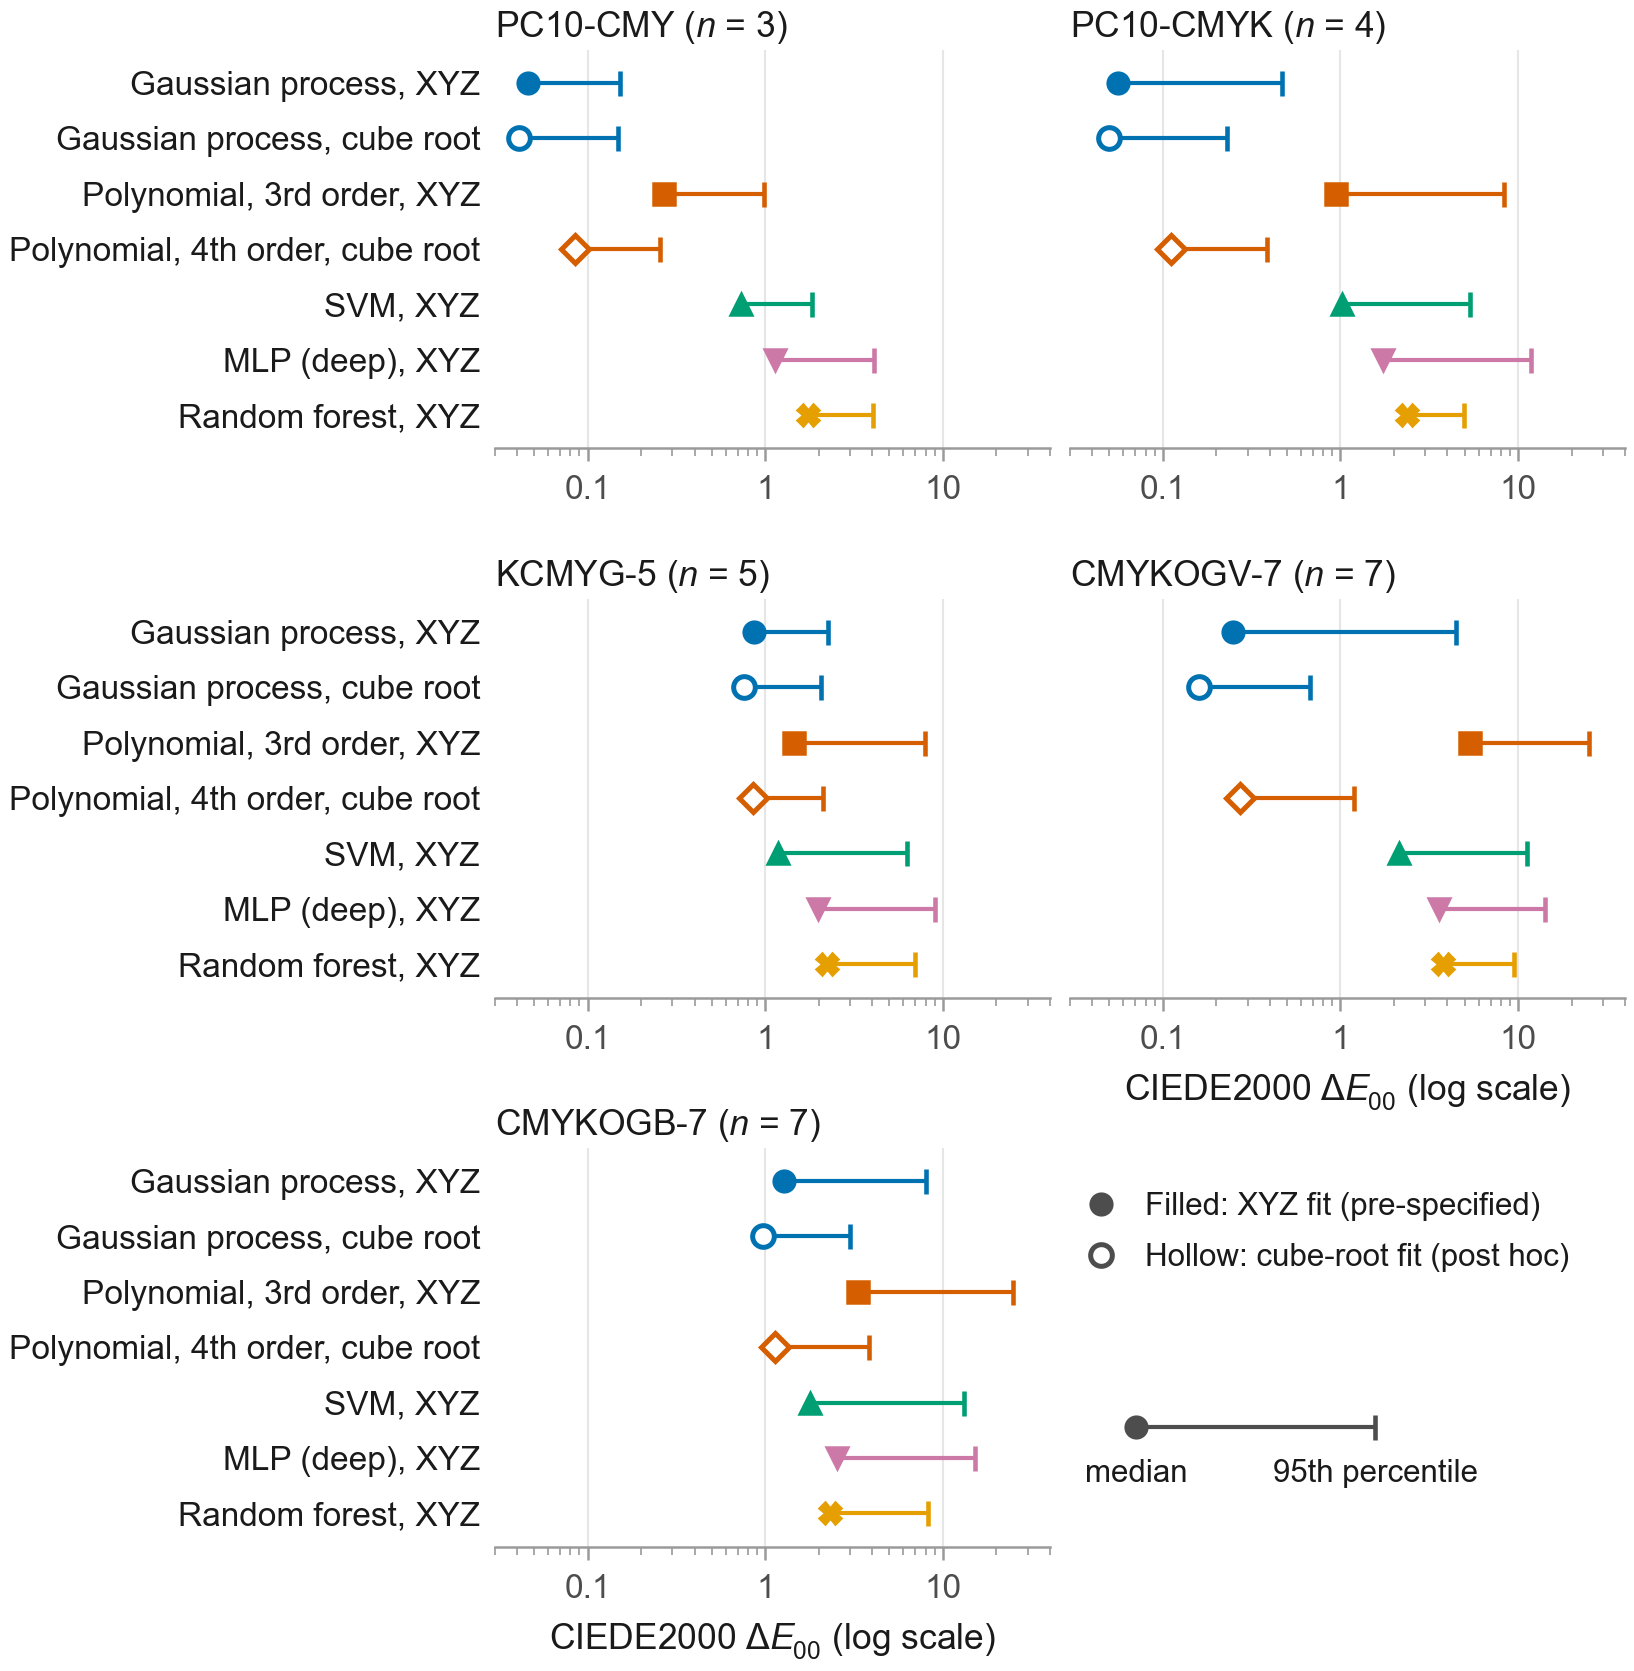
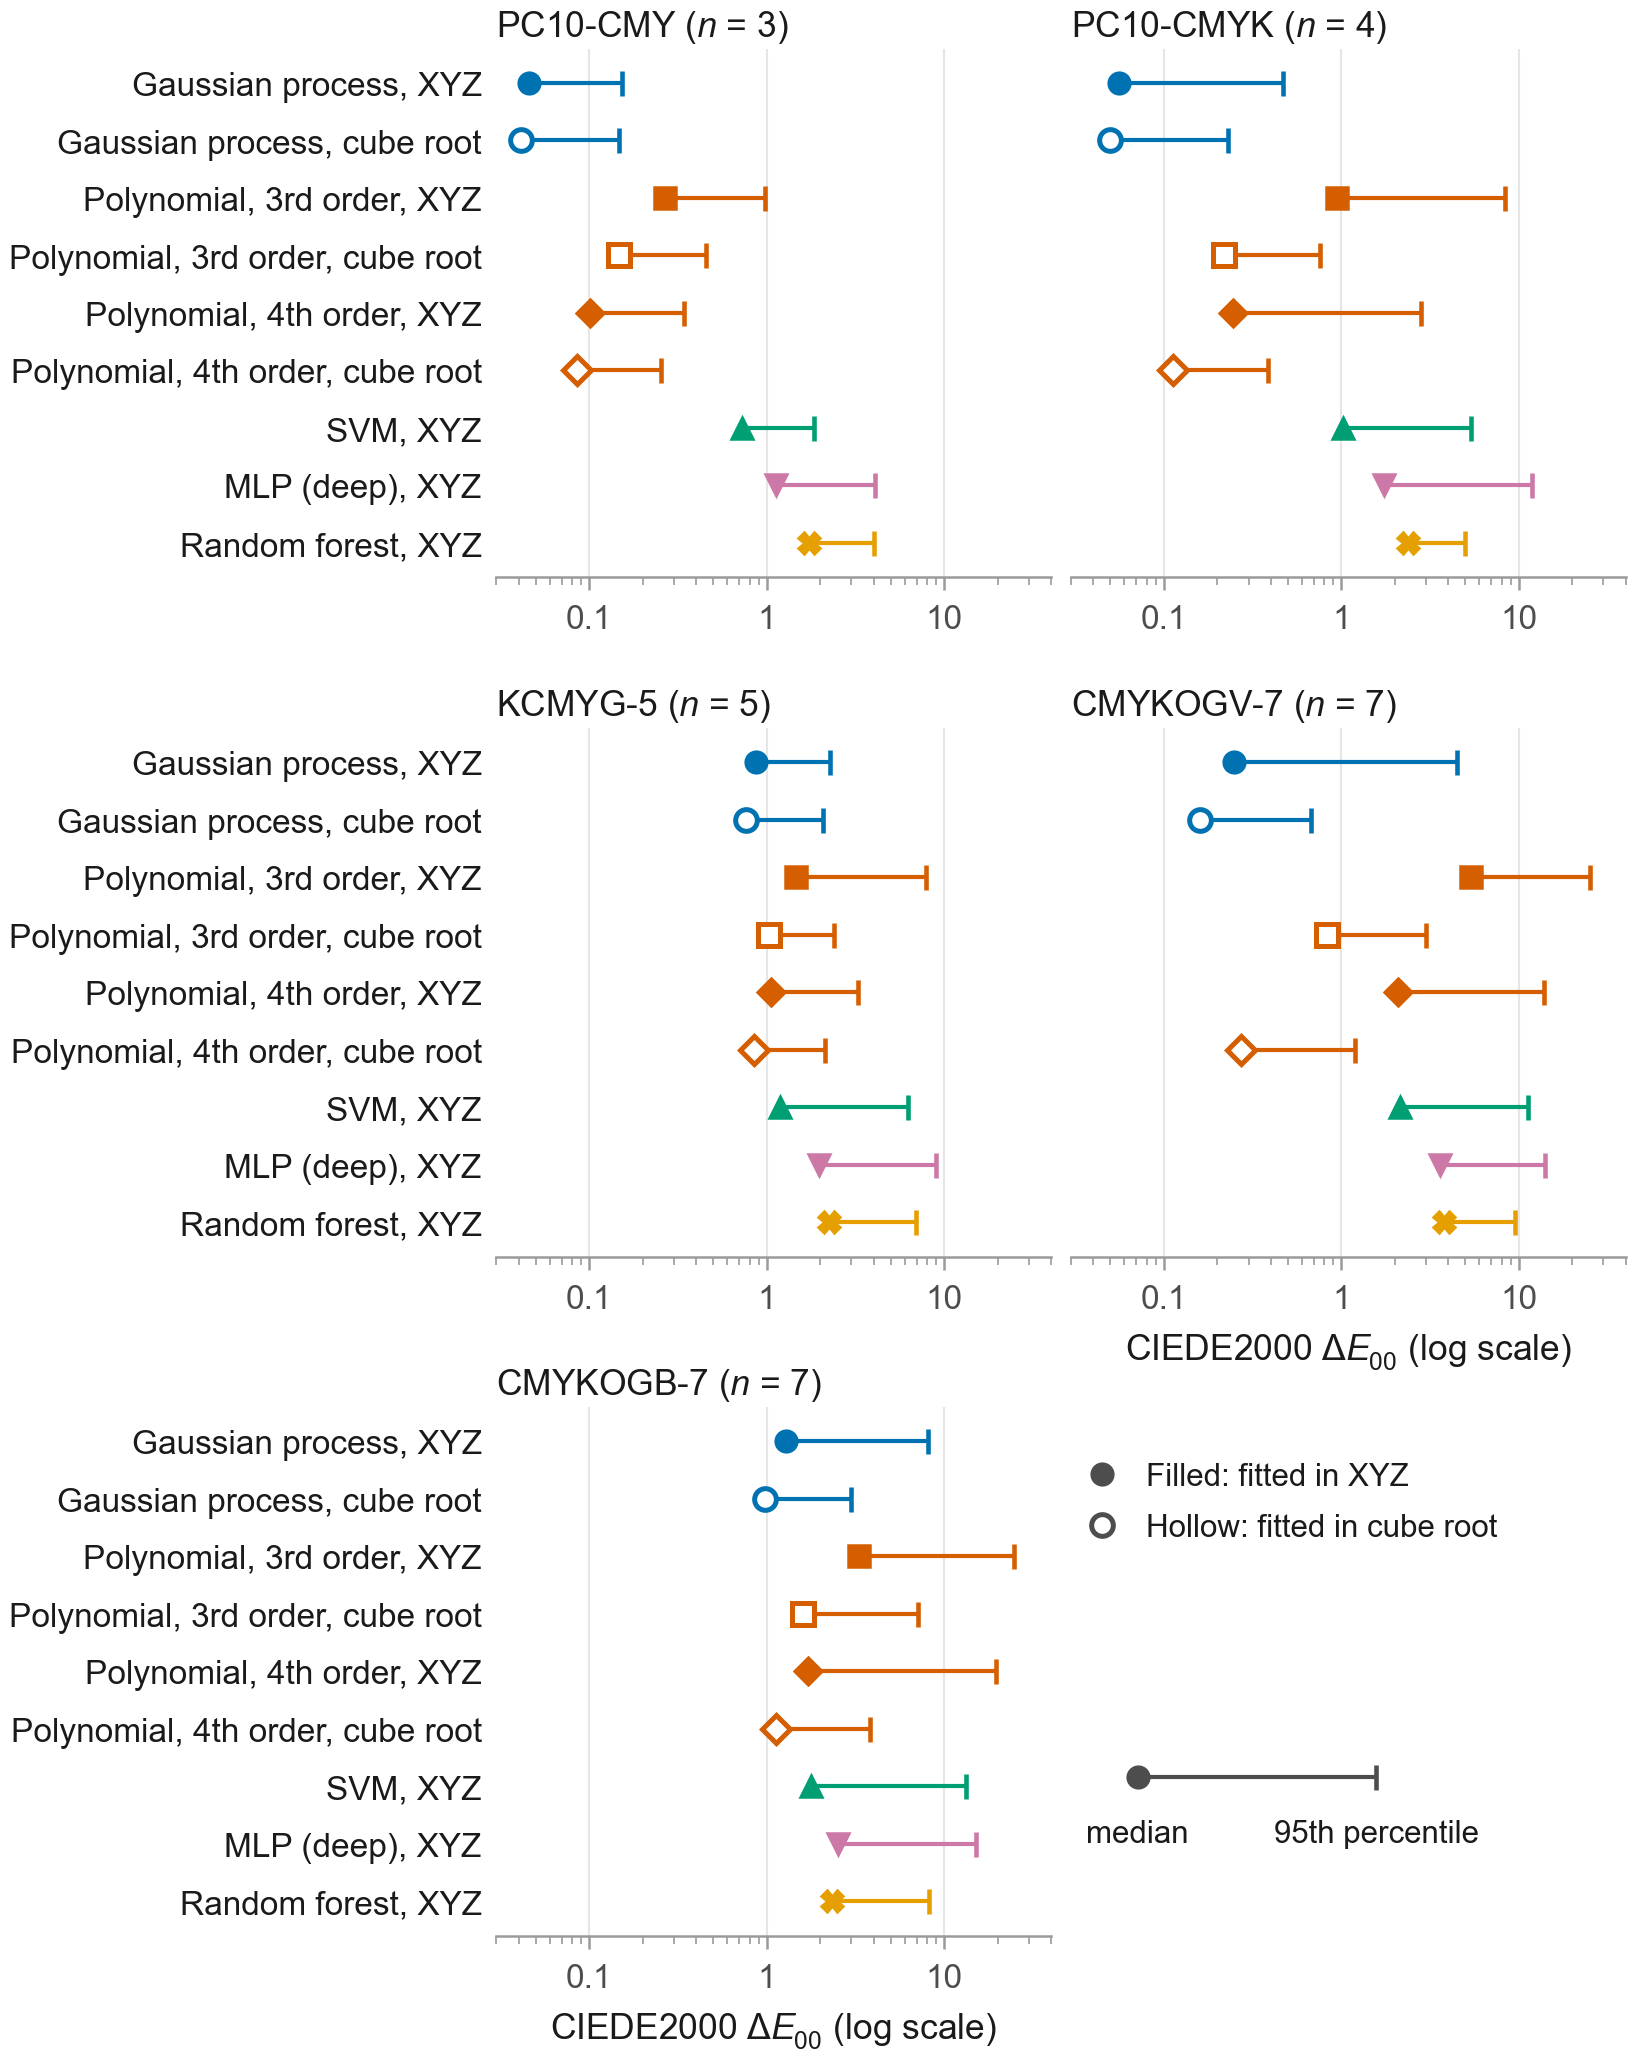
Figure 4: polynomial as full 2x2 of degree and fit space
Adds poly3_cbrt and poly4 rows so degree and space are no longer confounded; 9 rows per panel. Every plotted median/P95 is asserted equal to journal/results/<ds>/summary.csv. Legend now states only the fit space, since poly4 XYZ is also post hoc.

diff --git a/journal/figures/fig_per_dataset.py b/journal/figures/fig_per_dataset.py
@@ -4,18 +4,24 @@ Figure (round-3 revision, replaces the n-colour ladder as Figure 4): median and
 95th-percentile CIEDE2000 error per model, one panel per dataset.
 
 Each panel is one dataset and printing system. No line joins different
-datasets, and every panel shows the same seven models in the same row order:
+datasets, and every panel shows the same nine models in the same row order:
 
     Gaussian process, XYZ             (pre-specified)
     Gaussian process, cube root       (post hoc)
     Polynomial, 3rd order, XYZ        (pre-specified)
+    Polynomial, 3rd order, cube root  (post hoc)
+    Polynomial, 4th order, XYZ        (post hoc)
     Polynomial, 4th order, cube root  (post hoc)
     SVM, MLP (deep), random forest, XYZ (pre-specified)
 
+The polynomial is shown as the full 2 x 2 of degree (3rd, 4th) and space (XYZ,
+cube root), so the effect of degree and the effect of space can be read apart.
+
 Encoding: the marker is the median, the thin bar runs from the median to the
 95th percentile (P95), closed by a short tick. Filled markers are models fitted
-on XYZ (the pre-specified comparison); hollow markers are fitted in cube-root
-space, added after the XYZ results had been obtained (post hoc). Color is the
+on XYZ; hollow markers are fitted in cube-root space, added after the XYZ
+results had been obtained (post hoc). The 4th-order polynomial is post hoc in
+both spaces, so the legend states only the fit space. Color is the
 model family (Gaussian process blue, polynomial vermillion, as in _style);
 marker shape tells the polynomial degrees apart.
 
@@ -28,6 +34,7 @@ CMYKOGV-7,CMYKOGB-7}/summary.csv
 Run with: .venv/bin/python journal/figures/fig_per_dataset.py
 Writes: journal/figures/fig_per_dataset.png (300 dpi) and .pdf
 """
+import csv
 import os
 
 import matplotlib
@@ -63,6 +70,8 @@ MODELS = [
     ("gaussian_process", "Gaussian process", BLUE, "o", False),
     ("gaussian_process_cbrt", "Gaussian process", BLUE, "o", True),
     ("poly3", "Polynomial, 3rd order", VERMILLION, "s", False),
+    ("poly3_cbrt", "Polynomial, 3rd order", VERMILLION, "s", True),
+    ("poly4", "Polynomial, 4th order", VERMILLION, "D", False),
     ("poly4_cbrt", "Polynomial, 4th order", VERMILLION, "D", True),
     ("svm", "SVM", MODEL_STYLE["svm"]["color"], MODEL_STYLE["svm"]["marker"], False),
     ("mlp_deep", "MLP (deep)", MODEL_STYLE["mlp_deep"]["color"],
@@ -84,6 +93,12 @@ def load() -> dict[str, pd.DataFrame]:
         if missing:
             raise SystemExit(f"{ds}: models missing from summary.csv: {missing}")
         sub = s.loc[keys, ["median", "p95"]]
+        # Every plotted value must equal the CSV text exactly (no rounding, no edits).
+        with open(os.path.join(RESULTS_DIR, ds, "summary.csv"), newline="") as fh:
+            raw = {r["model"]: r for r in csv.DictReader(fh)}
+        for k in keys:
+            for col in ("median", "p95"):
+                assert float(sub.loc[k, col]) == float(raw[k][col]), (ds, k, col)
         lo, hi = sub.min().min(), sub.max().max()
         if lo < X_LIM[0] or hi > X_LIM[1]:
             raise SystemExit(f"{ds}: values {lo}-{hi} fall outside the axis {X_LIM}")
@@ -128,7 +143,7 @@ def draw_panel(ax, df: pd.DataFrame, title: str, show_labels: bool) -> None:
 
 def make_figure(data: dict[str, pd.DataFrame]) -> None:
     apply_style()
-    fig, axes = plt.subplots(3, 2, figsize=(LINEWIDTH_IN, 5.6), sharex=True)
+    fig, axes = plt.subplots(3, 2, figsize=(LINEWIDTH_IN, 6.9), sharex=True)
     flat = axes.ravel()
     for i, (ds, title) in enumerate(DATASETS):
         draw_panel(flat[i], data[ds], title, show_labels=(i % 2 == 0))
@@ -143,10 +158,10 @@ def make_figure(data: dict[str, pd.DataFrame]) -> None:
     handles = [
         Line2D([], [], color=INK_SECONDARY, marker="o", markersize=5.2,
                markerfacecolor=INK_SECONDARY, markeredgewidth=0.6, linestyle="none",
-               label="Filled: XYZ fit (pre-specified)"),
+               label="Filled: fitted in XYZ"),
         Line2D([], [], color=INK_SECONDARY, marker="o", markersize=5.2,
                markerfacecolor=SURFACE, markeredgewidth=1.2, linestyle="none",
-               label="Hollow: cube-root fit (post hoc)"),
+               label="Hollow: fitted in cube root"),
     ]
     leg_ax.legend(handles=handles, loc="upper left", bbox_to_anchor=(0.0, 0.92),
                   fontsize=FS_LEGEND, labelcolor=INK_PRIMARY, handlelength=1.2,
